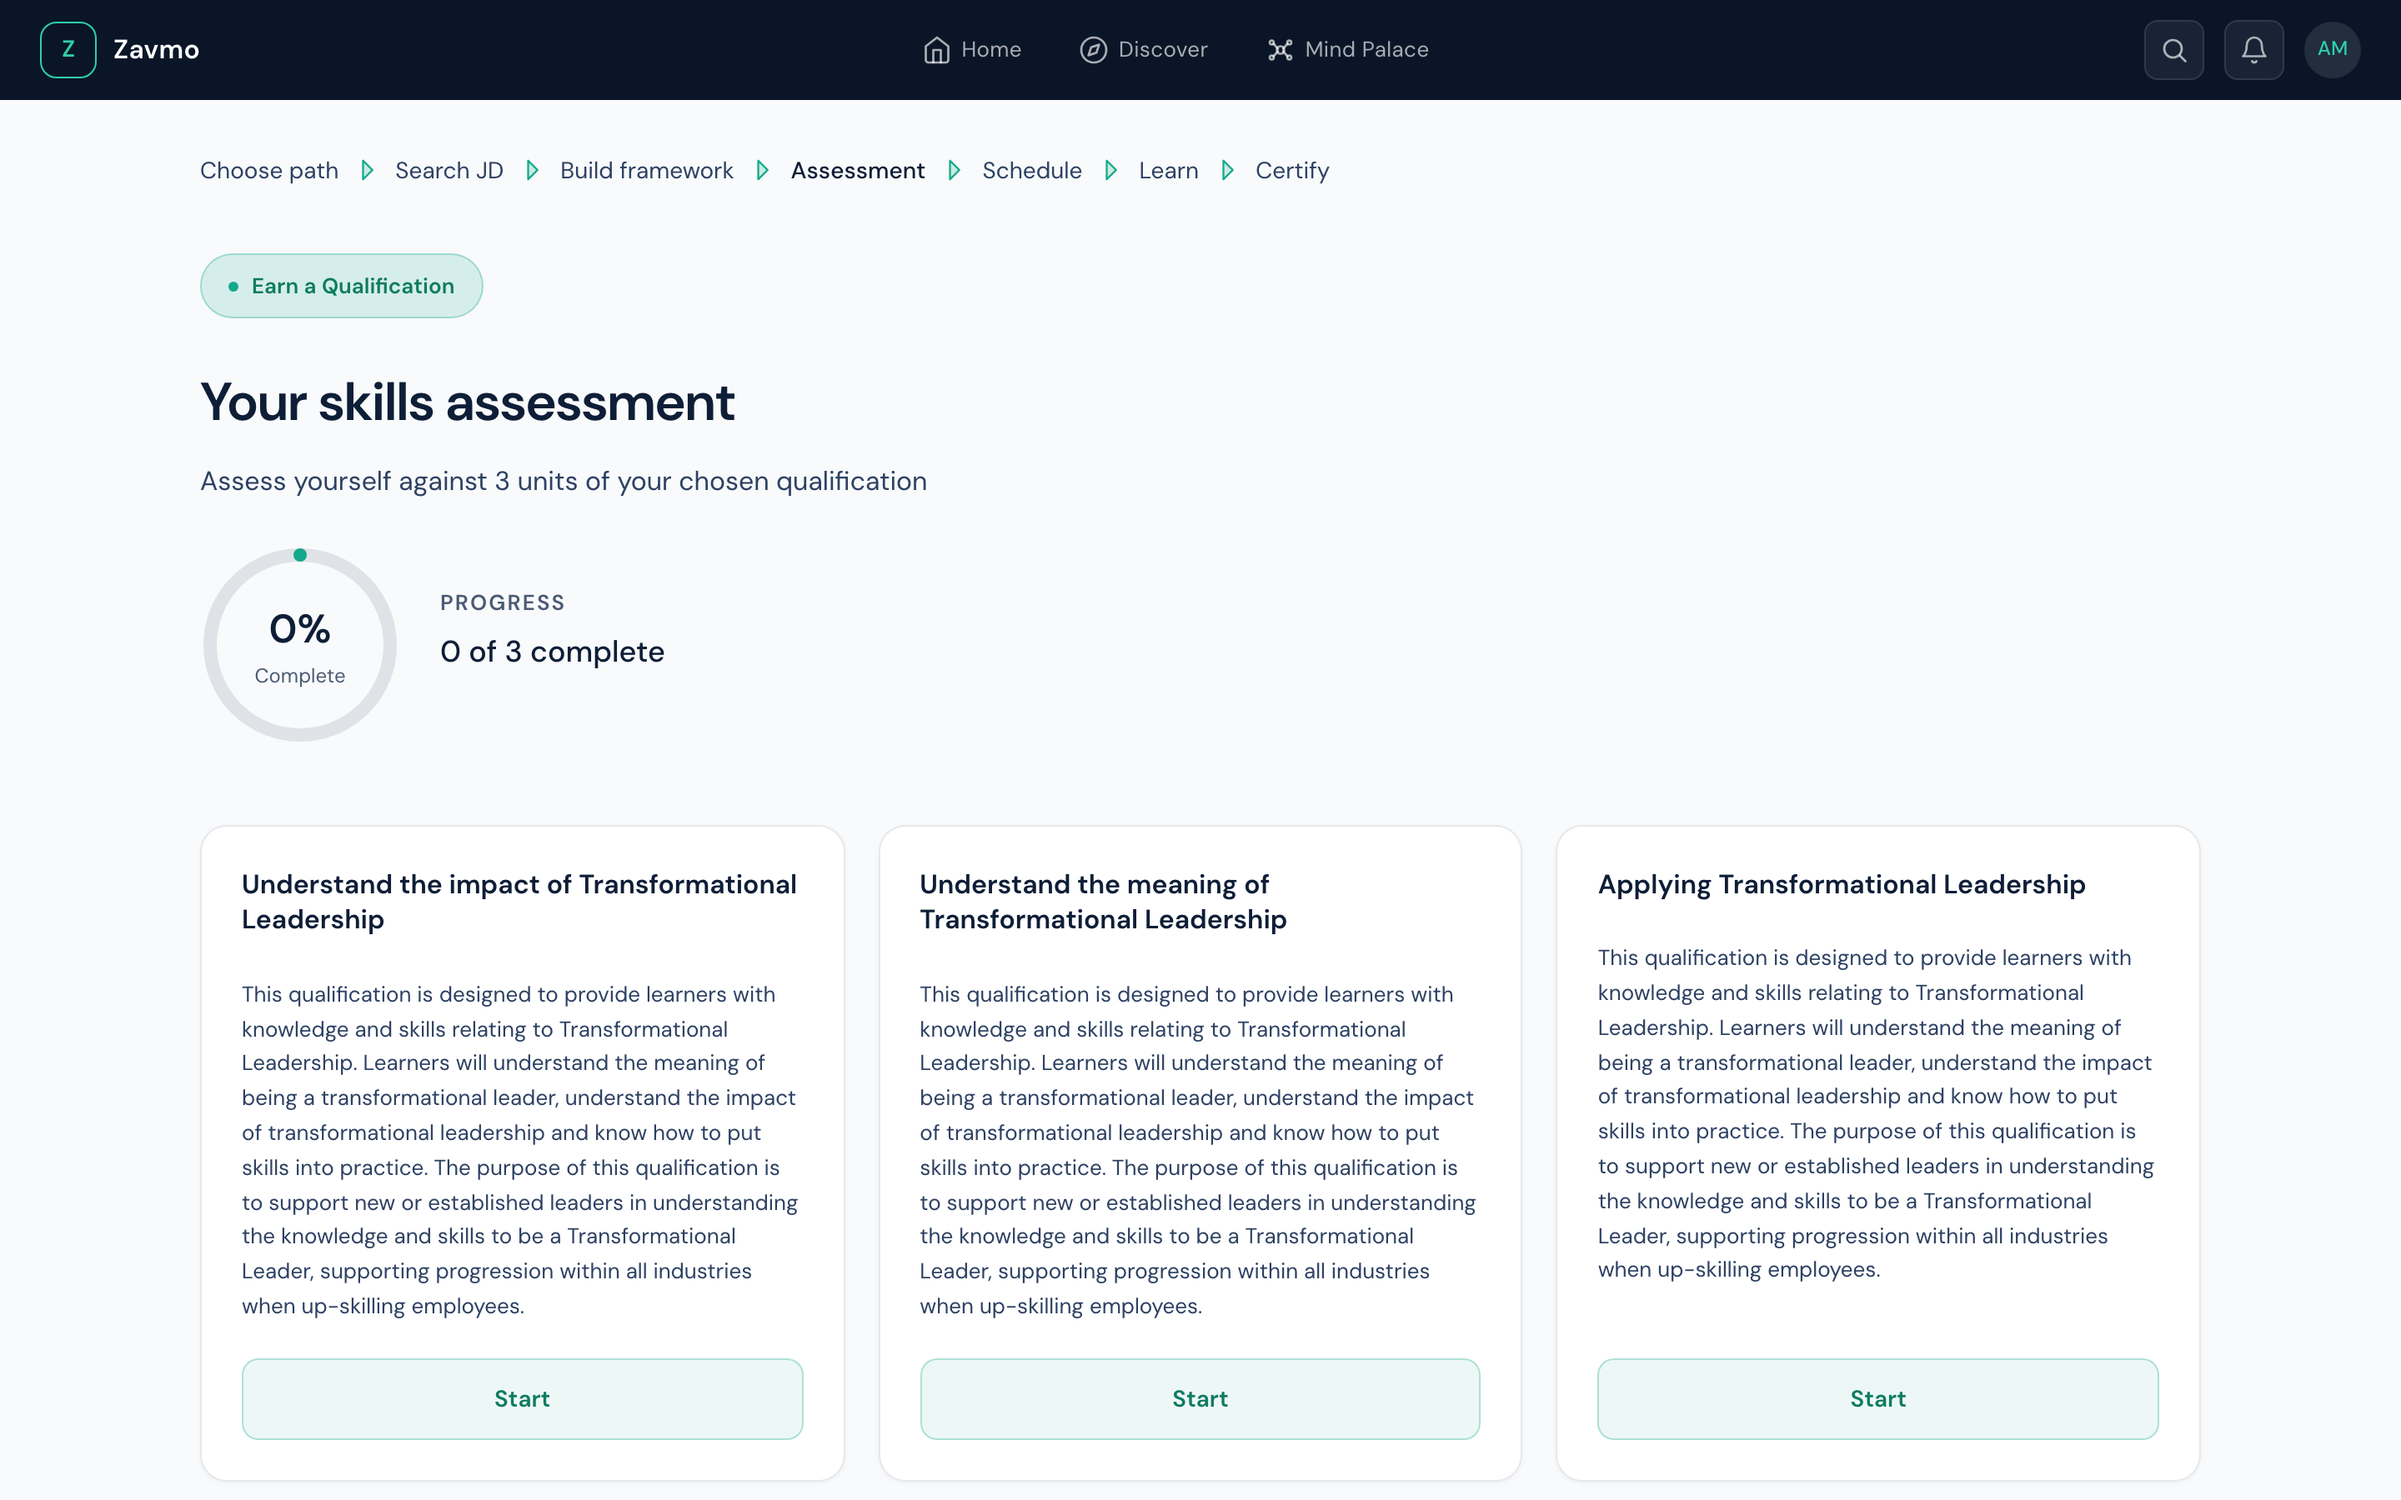
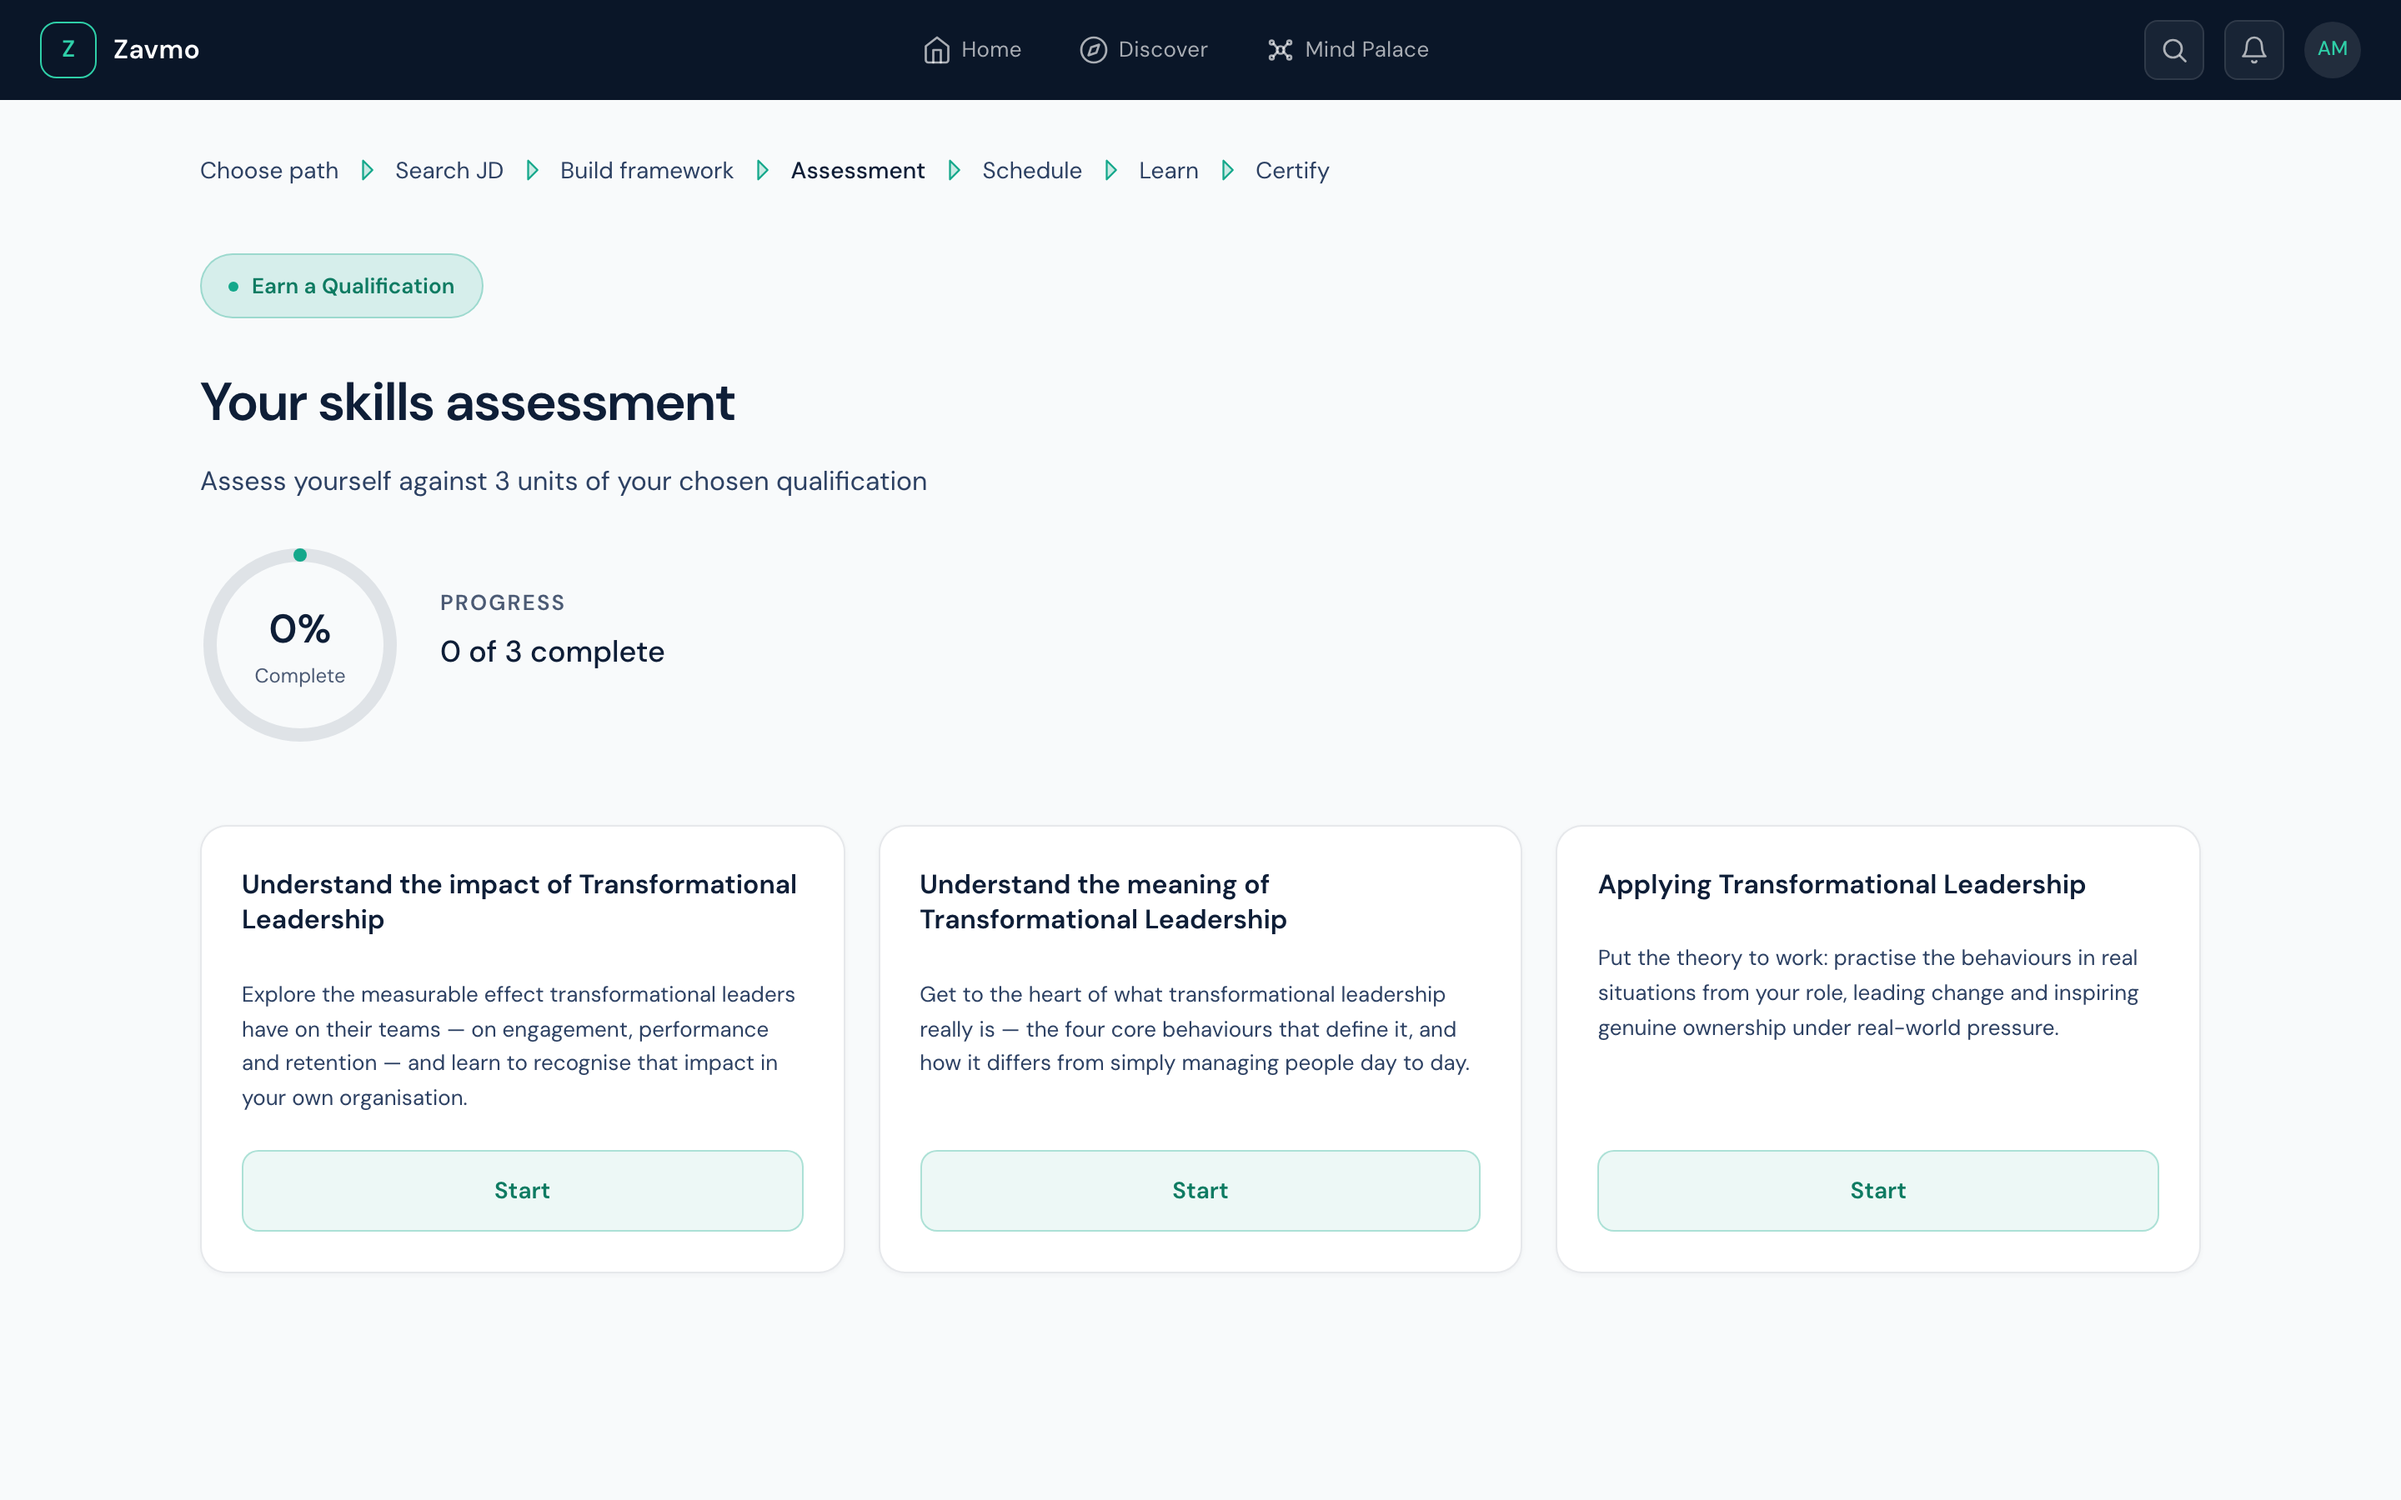
learner-journey: capture real in-lesson interactions + 5 games; fix duplicated unit descriptions
- Played an actual lesson end-to-end (test2/Alex): captured the live in-lesson MCQ (38) and the lesson-complete/Bloom mastery moment (44)
- New 'games' block: Match (39), Sequence (40), Fill the Gap (41), Sort (42), Prioritise (43) — real interaction components
- Fixed slide 17: the 3 qualification units now carry title-relevant descriptions (were all identical — logged as product bug B7)

Changed region(s): [[0.6562, 0.6222, 0.9062, 0.8711], [0.375, 0.6533, 0.625, 0.8711], [0.0938, 0.6533, 0.3438, 0.8711]]

diff --git a/learner-journey/index.html b/learner-journey/index.html
@@ -158,17 +158,25 @@ const S=[
   { img:'35.png', eyebrow:'Discover · Inside the qualification', title:'See exactly what you’ll learn', caption:'Open any unit and the full standard is laid bare — the National Occupational Standard it maps to, its level, every Performance Criterion (what you must be able to do) and every Knowledge Requirement (what you must understand). The real substance of the learning, in the open — a huge benefit for a learner deciding what to commit to.' },
   { img:'15.png', eyebrow:'Discover · Your path', title:'Pick your path', caption:'Current role, a future goal, and a nationally-recognised qualification come together — the destination is set, and Zavmo can now design the learning backwards from it.' },
   { img:'16.png', eyebrow:'Discover · Confidence check', title:'An assessment that thinks', caption:'Zavmo writes a bespoke, role-specific scenario on the spot, benchmarked to a national standard (Level 5) — a genuine dilemma with no clean answer (here, a breaking OAuth migration across 340 partners). You choose how you’d actually respond and rate your own confidence. From that, Zavmo finds where you truly stand — not where a multiple-choice quiz guesses you are.' },
-  { img:'17.png', eyebrow:'Assessment', title:'Your skills assessment', caption:'The chosen qualification breaks into real, nationally-benchmarked units. Zavmo assesses each one — the Choose path → Assessment → Schedule → Learn → Certify journey.' },
+  { img:'17.png', eyebrow:'Assessment', title:'Your skills assessment', caption:'The chosen qualification breaks into real, nationally-benchmarked units — each with its own focus: understanding the impact, the meaning, and then applying transformational leadership. Zavmo assesses you against every one before teaching a thing, so it only ever teaches what you still need.' },
   { img:'18.png', eyebrow:'Assessment · Pedagogy', title:'Built on Bloom’s taxonomy', caption:'The backbone of how Zavmo teaches. Every skill is mapped across the six cognitive levels — Remember, Understand, Apply, Analyse, Evaluate, Create — so progress is measured by depth of understanding, not boxes ticked. This is mastery learning: the one-to-one, two-sigma method, delivered at scale.' },
   { img:'20.png', eyebrow:'Assessment', title:'Your study plan', caption:'From the results, Zavmo builds a priority-ordered study plan — units, hours, and a week-by-week timeline with milestones.' },
 
   { section:true, num:'PART 5', title:'Lesson delivery', sub:'Zavmo teaches in your world — pitched at your Bloom’s level, paced to how you learn, and you can talk to it.' },
   { img:'21.png', eyebrow:'Deliver · The Coach', title:'Teaching, in context', caption:'“The Coach” teaches conversationally, using a worked example drawn from Alex’s own world — a burnt-out engineering team shipping API fixes — then asks a real question.' },
+  { img:'38.png', eyebrow:'Deliver · In the flow', title:'It checks you, mid-conversation', caption:'No separate quiz tab. Right inside the lesson, Zavmo poses a real multiple-choice dilemma — “you’ve got 90 seconds in standup, what do you say?” — with options that are genuinely tempting but wrong. The Bloom-level chip (Analyse) and the assessment criteria on the right update live as you answer. This is a real moment, captured from an actual lesson.' },
   { img:'33.png', eyebrow:'Deliver · Interactive & gamified', title:'You steer it — and it scores you', caption:'Every message is interactive: answer in your own words, or tap “Got it”, “Slower please”, “Show me an example” or “Read it to me”. And it’s gamified — Zavmo grades your thinking live at Bloom level 4 (Analysing) and tracks you against the learning outcomes as you go.' },
   { img:'37.png', eyebrow:'Deliver · Interactive cards', title:'It drops you into a live scenario', caption:'Mid-lesson, Zavmo turns teaching into doing: it hands you a real scenario — your team has 48 hours to fix a critical API — and an interactive card asking what you’d say first to keep them owning the problem. You don’t read about leadership; you practise it, in the moment, and Zavmo responds to your actual answer.' },
   { img:'22.png', eyebrow:'Deliver · Adaptive', title:'It adapts to your answer', caption:'When the learner answers, Zavmo recognises the competence shown and stress-tests it with a sharper, harder follow-up — pitched exactly at where they are, not a fixed script.' },
+  { statement:true, eyebrow:'Deliver · Five ways to make it stick', big:'It doesn’t test you. It plays with you.', body:'Beyond the conversation, Zavmo weaves in five kinds of interactive game — matching, sequencing, fill-the-gap, sorting and prioritising — each tagged to a Bloom’s level. Learning by doing, not by reading.' },
+  { img:'39.png', eyebrow:'Game · Match', title:'Match the pairs', caption:'Drag each term to its definition. A fast, tactile way to lock in vocabulary and concepts — scored instantly, with an undo if you want to rethink.' },
+  { img:'40.png', eyebrow:'Game · Sequence', title:'Put it in order', caption:'Re-order the steps of a real process until the sequence is right. Perfect for procedures and frameworks where the order is the point.' },
+  { img:'41.png', eyebrow:'Game · Fill the gap', title:'Complete the picture', caption:'A word bank and a sentence with holes in it — choose the right words in context. It checks understanding, not just recall.' },
+  { img:'42.png', eyebrow:'Game · Sort', title:'Sort into categories', caption:'Drag each item into the right bucket. Great for distinctions that matter — what counts, and what doesn’t.' },
+  { img:'43.png', eyebrow:'Game · Prioritise', title:'Rank what matters most', caption:'Order a list by priority and defend the call. This is judgement, not memory — the higher-order thinking that separates competence from mastery.' },
   { img:'28.png', eyebrow:'Deliver · Voice', title:'Talk to Zavmo, hands-free', caption:'Learners don’t have to type. Turn on voice and Zavmo reads every reply aloud and transcribes what you say (via ElevenLabs) — streamed in the moment, never stored, consent you can withdraw any time.' },
   { img:'23.png', eyebrow:'Deliver · Gamified progress', title:'Progress you can see', caption:'A live module-completion bar, the learning outcomes being met, and space for the learner’s own notes — momentum made visible.' },
+  { img:'44.png', eyebrow:'Deliver · Mastery', title:'It knows when you’ve got it', caption:'When you’ve genuinely met every learning outcome — proven through the conversation, not a tick-box — Zavmo closes the lesson with “Brilliant work,” confirms the outcomes, and opens the door to the assessment. Captured live at the end of a real lesson.' },
 
   { section:true, num:'PART 6', title:'Demonstrate', sub:'Prove the skill — not just recognise it.' },
   { img:'24.png', eyebrow:'Demonstrate', title:'Show what you’ve learned', caption:'A twelve-question check with a live running score. The learner has to demonstrate the competence the lesson built.' },
